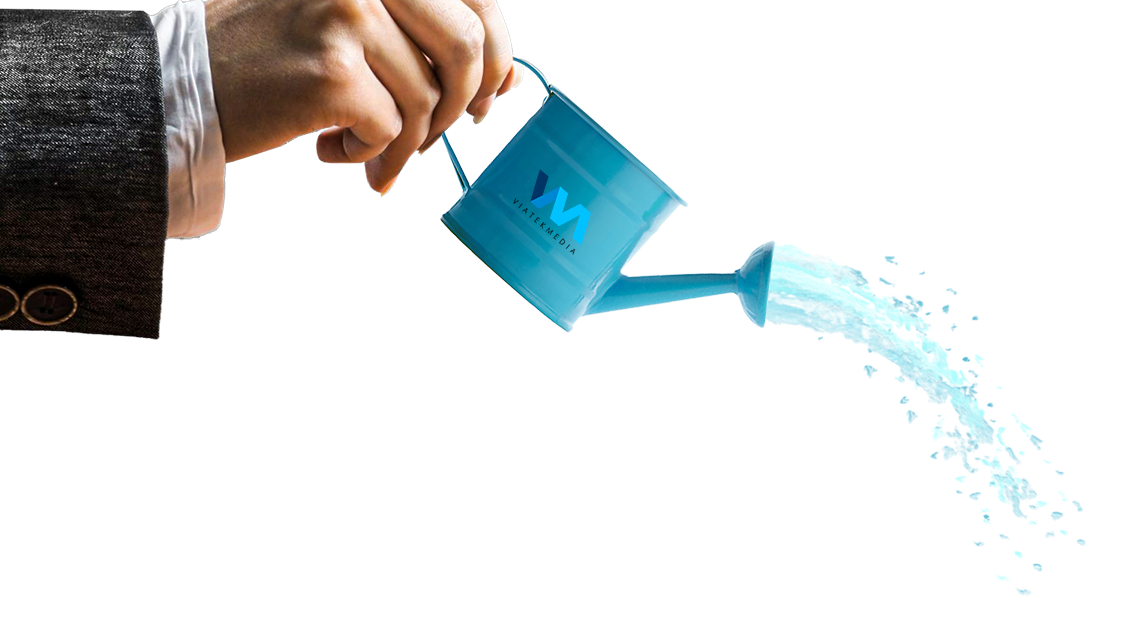
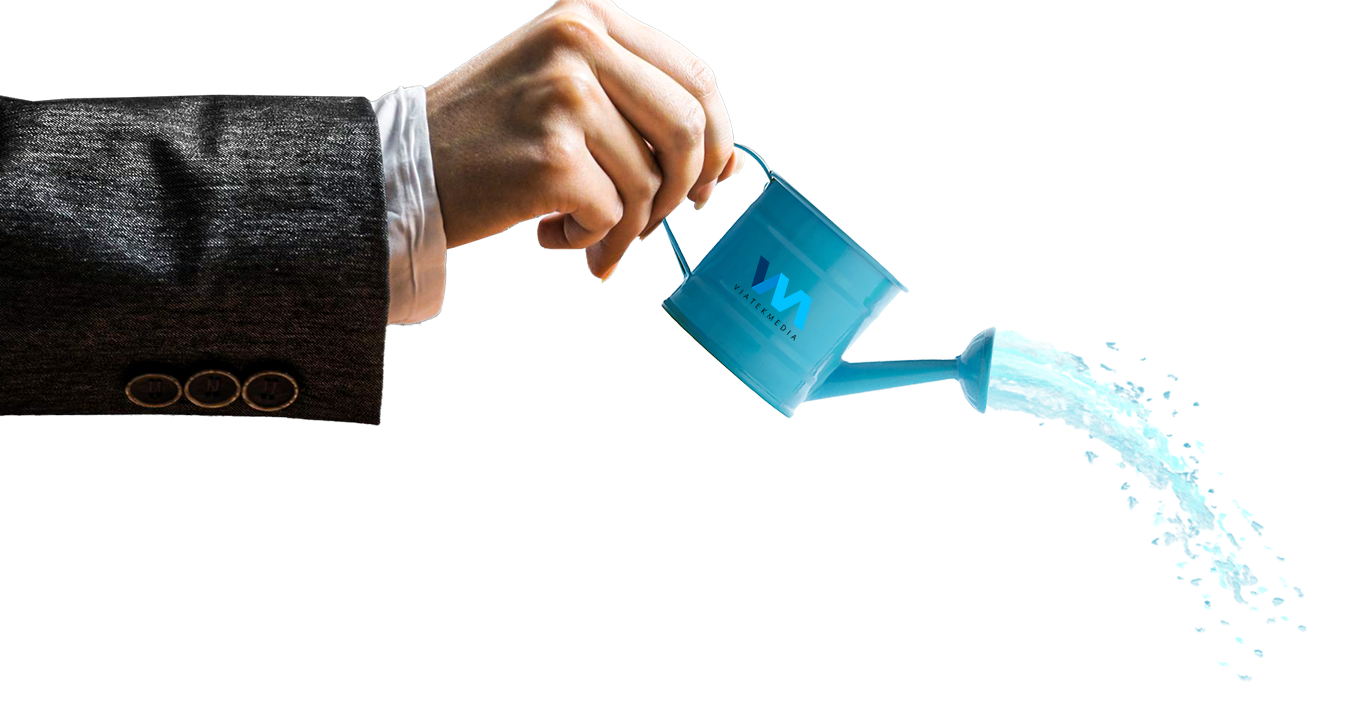
About: made some blocks this page with adaptive design. Mobile: added sime animation on first block

Changed region(s): [[0.0, 0.0, 0.9619, 0.8788], [0.8998, 0.9394, 0.9309, 0.9697], [0.8998, 0.8788, 0.9309, 0.9091]]

diff --git a/src/about.html b/src/about.html
@@ -14,7 +14,7 @@
 
             <div class="about-block about-block1">
                 <div class="about-block-cont container">
-                    <div class="about-cont">
+                    <div class="about-cont about-cont1">
                         <p class="about-tittle">О компании</p>
                         <div class="about-text-block">
                             <svg class="svg-attention" width="20" height="20">
@@ -28,27 +28,28 @@
             </div>
 
             <div class="about-block about-block2">
-                <div class="about-block-cont container">
-                    <div class="about-cont">
-                        <p class="about-tittle">Совершенство и развитие</p>
-                        <div class="about-text-block">
-                            <svg class="svg-attention" width="20" height="20">
-                                <use href="#attention"/>
-                            </svg>
-                            <p class="about-bluText">Viatekmedia - идет в ногу со временем</p>
-                        </div>
-                        <p class="about-text">Мы повышаем уровень своего профессионализма и знаний для того, чтобы держать вас в курсе новостей и событий индустрии автоматизации бизнеса. Мы совершенствуем будущее, которое вы создаете.</p>
+                <img class="about-block2-imgHand" src="img/about/about-hand.png" alt="hand">
+
+                <div class="about-cont about-cont2">
+                    <p class="about-tittle">Совершенство и развитие</p>
+                    <div class="about-text-block">
+                        <svg class="svg-attention" width="20" height="20">
+                            <use href="#attention"/>
+                        </svg>
+                        <p class="about-bluText">Viatekmedia - идет в ногу со временем</p>
                     </div>
                 </div>
-                <div class="about-block2-img">
-<!--                    <img src="img/about/about-hand.png" alt="hand">-->
-<!--                    <img src="img/about/about-plant.png" alt="plant">-->
-                </div>
+
+                <p class="about-text about-text2">Мы повышаем уровень своего профессионализма и знаний для того, чтобы держать вас в курсе новостей и событий индустрии автоматизации бизнеса. Мы совершенствуем будущее, которое вы создаете.</p>
+
+                <img class="about-block2-imgPlant" src="img/about/about-plant.png" alt="plant">
             </div>
 
             <div class="about-block about-block3">
-                <div class="about-block-cont container">
-                    <div class="about-cont">
+                <img src="img/about/about-men.png" alt="men">
+
+                <div class="about-block-cont">
+                    <div class="about-cont about-cont3">
                         <p class="about-tittle">Миссия компании</p>
                         <div class="about-text-block">
                             <svg class="svg-attention" width="20" height="20">
@@ -59,12 +60,12 @@
                         <p class="about-text">Мы работаем чтобы помочь вашему бизнесу стать более успешными, автоматизируя процессы перераспределить высвободившийся временной ресурс для создания новых и нужных благ человеку и обществу.</p>
                     </div>
                 </div>
-<!--                <img src="img/about/about-grass.png" alt="grass">-->
-<!--                <img src="img/about/about-men.png" alt="men">-->
+
+                <img src="img/about/about-grass.png" alt="grass">
             </div>
 
             <div class="about-block about-block4">
-                <div class="about-block-cont container">
+                <div class="about-block-cont about-block-cont4">
                     <div class="about-cont">
                         <p class="about-tittle">Индивидуальность</p>
                         <div class="about-text-block">
@@ -76,8 +77,9 @@
                         <p class="about-text">Ваша индивидуальность определяет направление, в котором мы движемся. Именно вы задаете темп и вектор вашего развития, а мы делаем наши решения соответствующимиим.</p>
                     </div>
                 </div>
+                <img class="block4-img-mans" src="img/about/about-mens.png" alt="mens">
 <!--                <div class="about-block4-img">-->
-<!--                    <img class="block4-img-mans" src="img/about/about-mens.png" alt="mens">-->
+<!--                    -->
 <!--                    <img class="block4-img-manDance" src="img/about/about-men-dance.png" alt="men-dance">-->
 <!--                </div>-->
             </div>

diff --git a/src/scss/about.scss b/src/scss/about.scss
@@ -7,8 +7,13 @@
     &-block {
         height: 104.37rem;
         display: flex;
-        flex-direction: column;
-        justify-content: center;
+        &-cont {
+            align-self: center;
+        }
+        &-cont4 {
+            padding-left: 15rem;
+            width: 50%;
+        }
     }
     &-block1 {
         background-color: $black;
@@ -20,11 +25,26 @@
     }
     &-block2 {
         color: $dark;
+        display: grid;
+        grid-template-rows: repeat(2, auto);
+        grid-template-columns: repeat(2, auto);
+        &-imgHand {
+            position: relative;
+            z-index: 0;
+        }
+        &-imgPlant {
+            position: relative;
+            z-index: 0;
+            left: -40%;
+            top: -50%;
+        }
     }
     &-block3 {
         background-image: url("../img/about/about-bgd2.png");
         color: $white;
         background-repeat: no-repeat;
+        position: relative;
+        z-index: 1;
     }
     &-block4 {
         color: $dark;
@@ -51,23 +71,98 @@
             column-gap: 2.75rem;
         }
     }
-
     &-cont {
-        width: 35%;
         display: flex;
         flex-direction: column;
         row-gap: 6.25rem;
+    }
+    &-cont1 {
+        width: 50%;
+    }
+    &-cont2 {
+        padding-top: 10.75rem;
+        position: relative;
+        z-index: 3;
+    }
+    &-text2 {
+        width: 60%;
+        justify-self: center;
+        position: relative;
+        z-index: 3;
+    }
+    &-cont3 {
+        width: 50%;
     }
 }
 
 .block4 {
     &-img {
         &-mans {
-            width: 114.6rem;
-            height: 78.25rem;
+            height: 75%;
+            align-self: center;
         }
         &-manDance {
 
+        }
+    }
+}
+
+@media (max-width : 1024px) {
+    html {
+        font-size: 6px;
+    }
+
+    .page {
+        &-breadcrumbs {
+            display: none;
+        }
+    }
+
+    .about {
+        &-block1 {
+            background-position: 175%;
+            height: 93.3rem;
+        }
+    }
+}
+
+@media (max-width : 400px) {
+    html {
+        font-size: 4px;
+    }
+
+    .about {
+        &-block1 {
+            height: 241rem;
+            background-position: top;
+            background-size: 140%;
+        }
+        &-cont {
+            width: 100%;
+        }
+        &-cont1 {
+            position: relative;
+            top: 40%;
+            box-shadow: 0 -10rem 10rem 5rem #000;
+        }
+        &-tittle {
+            font-size: 7.5rem;
+        }
+        &-bluText {
+            font-size: 4.5rem;
+        }
+        &-text {
+            font-size: 5rem;
+        }
+
+        &-block2 {
+            height: 190rem;
+        }
+        &-block3 {
+            height: 244.75rem;
+        }
+        &-block4 {
+            height: 184.25rem;
         }
     }
 }

diff --git a/src/mobile.html b/src/mobile.html
@@ -37,7 +37,7 @@
                 <div class="content-item-cont container">
                     <div class="content-item-block">
                         <img class="item-block-num" src="img/mobile/number1.png" alt="number1"/>
-                        <div class="item-block-cont">
+                        <div class="item-block-cont item-block-contLeft">
                             <p class="item-block-title">Рождение идеи</p>
                             <p class="item-block-text">Проводится маркетинговый и бизнес-анализ с целью выявления целесообразности разработки</p>
                         </div>

diff --git a/src/scss/mobile.scss b/src/scss/mobile.scss
@@ -137,12 +137,28 @@ a {
     }
 }
 
+@keyframes showLeft {
+  from {
+    left:-100%;
+  }
+  to {
+    left:0;
+  }
+}
+
+
+
 .item {
   &-block {
     &-cont {
       display: flex;
       flex-direction: column;
       row-gap: 2.5rem;
+    }
+    &-contLeft {
+      position: relative;
+      left: -100%;
+      animation: showLeft 1s;
     }
     &-cont2 {
       position: relative;
@@ -165,6 +181,7 @@ a {
     }
   }
 }
+
 
 .phone {
   display: none;
